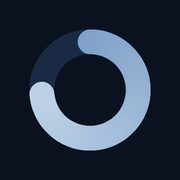
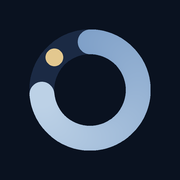
Marka: uygulama adı her yerde "Sıfırla"
- Üst bar: yeni işaret (kapanmaya yaklaşan sıfır/halka + uç noktası,
  hero halkasıyla akraba) + "Sıfırla" + slogan "Borcunu sıfırla."
- Sekme başlığı, docTitle, manifest (name/short_name/description),
  index.html, README, sw.js yorumları güncellendi
- PWA ikonları yeniden üretildi: halka boşluğuna şampanya uç noktası
  (marka işaretiyle aynı motif); SW önbelleği v2'ye yükseltildi
- Yedek dosyası: sifirla-yedek-*.json (EN: sifirla-backup-*.json)
- Onboarding ilk kart: "Sıfırla: borcunu sıfırla."
- EN'de marka çevrilmez ("Sıfırla"), slogan "Debt payoff planner"
- Paylaşım kartı ve yerel bildirim başlığı zaten st().baslik /
  zilYerelBaslik üzerinden "Sıfırla" oldu

Changed region(s): [[0.25, 0.25, 0.3611, 0.3889]]

diff --git a/borc-plani.html b/borc-plani.html
@@ -3,7 +3,7 @@
 <head>
 <meta charset="UTF-8">
 <meta name="viewport" content="width=device-width, initial-scale=1.0">
-<title>Borç Planlayıcı</title>
+<title>Sıfırla</title>
 <!-- PWA: manifest + ikonlar yereldir; dış çağrı yok kuralı bozulmaz -->
 <link rel="manifest" href="manifest.webmanifest">
 <link rel="icon" type="image/png" sizes="192x192" href="ikon-192.png">
@@ -129,6 +129,7 @@
   .container { max-width: 880px; margin: 0 auto; }
   header { display: flex; justify-content: space-between; align-items: center; margin-bottom: 24px; }
   h1 { font-size: 24px; font-weight: 600; color: var(--accent-strong); }
+  .marka .slogan { margin: 1px 0 0 30px; font-size: 12px; letter-spacing: 0.04em; color: var(--text-muted); }
   h2 { font-size: 17px; font-weight: 600; margin-bottom: 16px; color: var(--accent-strong); }
   .card {
     background: var(--surface);
@@ -438,7 +439,12 @@
 <body>
 <div class="container">
   <header>
-    <h1><svg class="ikn" viewBox="0 0 24 24" fill="none" stroke="currentColor" stroke-width="1.75" stroke-linecap="round" stroke-linejoin="round" aria-hidden="true"><path d="M4 20C4 12 10 5 20 4c0 10-7 16-14 16"/><path d="M4 20c2-6 6-10 11-12"/></svg><span data-i18n="baslik">Borç Planlayıcı</span></h1>
+    <!-- Marka işareti: kapanmaya yaklaşan sıfır/halka + uç noktası
+         (hero ilerleme halkasıyla akraba; yaprak ikonunun yerini aldı) -->
+    <div class="marka">
+      <h1><svg class="ikn" viewBox="0 0 24 24" fill="none" stroke="currentColor" stroke-width="1.75" stroke-linecap="round" aria-hidden="true"><circle cx="12" cy="12" r="8.5" stroke-dasharray="44 9.4" transform="rotate(-80 12 12)"/><circle cx="8.8" cy="4.1" r="1.5" fill="currentColor" stroke="none"/></svg><span data-i18n="baslik">Sıfırla</span></h1>
+      <p class="slogan" data-i18n="slogan">Borcunu sıfırla.</p>
+    </div>
     <div class="kontroller no-print">
       <select id="palet" title="Tema paleti">
         <option value="teal" data-i18n="opt_teal">Gece Mavisi &amp; Gümüş (varsayılan)</option>
@@ -1026,7 +1032,7 @@
   <div class="ob-serit" id="obSerit">
     <section class="ob-kart">
       <svg class="buyuk" viewBox="0 0 48 48" fill="none" stroke="currentColor" stroke-width="2" stroke-linecap="round" stroke-linejoin="round" aria-hidden="true"><path d="M18 8 6 12v28l12-4 12 4 12-4V8l-12 4-12-4z"/><path d="M18 8v28M30 12v28"/><path d="M36 4v10M36 4h7l-2 3 2 3h-7"/></svg>
-      <h2 data-i18n="ob1b">Borçtan çıkışını planla.</h2>
+      <h2 data-i18n="ob1b">Sıfırla: borcunu sıfırla.</h2>
       <p data-i18n="ob1m">Borçlarını gir, borçsuz olacağın tarihi anında gör.</p>
     </section>
     <section class="ob-kart">
@@ -1064,8 +1070,9 @@
 const SOZLUK = {
   tr: {
     statik: {
-      docTitle: "Borç Planlayıcı",
-      baslik: "Borç Planlayıcı",
+      docTitle: "Sıfırla",
+      baslik: "Sıfırla",
+      slogan: "Borcunu sıfırla.",
       opt_teal: "Gece Mavisi & Gümüş (varsayılan)", opt_orman: "Orman (Pro)", opt_bakir: "Bakır-Yeşil (Pro)",
       ozet_bakiye: "Toplam bakiye", hero_buay: "Bu ay ödenecek",
       hayat_h: "Önlenen Faizin Karşılığı",
@@ -1089,7 +1096,7 @@ const SOZLUK = {
       k6m: "Her ay tek dokunuşla check-in yap. Harita yeşillenir, serin büyür, yol kısalır.",
       kilavuz_feragat: "Feragatnameyi oku",
       kilavuz_tur: "Turu tekrar göster",
-      ob1b: "Borçtan çıkışını planla.", ob1m: "Borçlarını gir, borçsuz olacağın tarihi anında gör.",
+      ob1b: "Sıfırla: borcunu sıfırla.", ob1m: "Borçlarını gir, borçsuz olacağın tarihi anında gör.",
       ob2b: "Bilimsel yöntemle: kartopu ve çığ.", ob2m: "İki kanıtlı stratejiyi yan yana karşılaştır, sana uyanı seç.",
       ob3b: "Sadece bu ay ne yapacağını gör.", ob3m: "Her ay tek net liste: hangi borca ne kadar.",
       ob4b: "Verin sadece sende — internet gerekmez.", ob4m: "Her şey cihazında çalışır; hiçbir veri gönderilmez.",
@@ -1300,7 +1307,7 @@ const SOZLUK = {
       kartBos: "Önce borç ekle — başarı kartın burada oluşacak.",
       kartDosya: "basari-karti.png",
       kartPaylasMetin: "Borç kapatma yolculuğumda ilerliyorum!",
-      yedekDosya: (t) => `borc-plani-yedek-${t}.json`,
+      yedekDosya: (t) => `sifirla-yedek-${t}.json`,
       yedekOk: "✓ Yedek indirildi (şifresiz).",
       yedekSifreliOk: "✓ Şifreli yedek indirildi. Parolanı unutma — kurtarma yolu yok!",
       yedekParolaGerek: "Bu yedek şifreli: içe aktarmak için parola alanına aynı parolayı yaz.",
@@ -1372,8 +1379,10 @@ const SOZLUK = {
   },
   en: {
     statik: {
-      docTitle: "Debt Planner",
-      baslik: "Debt Planner",
+      /* Marka çevrilmez: "Sıfırla" her dilde aynı; yalnızca slogan yerelleşir */
+      docTitle: "Sıfırla",
+      baslik: "Sıfırla",
+      slogan: "Debt payoff planner",
       opt_teal: "Midnight Blue & Silver (default)", opt_orman: "Forest (Pro)", opt_bakir: "Copper-Green (Pro)",
       ozet_bakiye: "Total balance", hero_buay: "Due this month",
       hayat_h: "What Your Saved Interest Buys",
@@ -1397,7 +1406,7 @@ const SOZLUK = {
       k6m: "Check in once a month with a single tap. The map turns green, your streak grows, the road gets shorter.",
       kilavuz_feragat: "Read the disclaimer",
       kilavuz_tur: "Show the tour again",
-      ob1b: "Plan your way out of debt.", ob1m: "Enter your debts and instantly see your debt-free date.",
+      ob1b: "Sıfırla: zero out your debt.", ob1m: "Enter your debts and instantly see your debt-free date.",
       ob2b: "With proven methods: snowball & avalanche.", ob2m: "Compare the two strategies side by side and pick yours.",
       ob3b: "See only what to do this month.", ob3m: "One clear list each month: which debt, how much.",
       ob4b: "Your data stays with you — no internet needed.", ob4m: "Everything runs on your device; nothing is ever sent.",
@@ -1607,7 +1616,7 @@ const SOZLUK = {
       kartBos: "Add a debt first — your achievement card will appear here.",
       kartDosya: "achievement-card.png",
       kartPaylasMetin: "Making progress on my debt-free journey!",
-      yedekDosya: (t) => `debt-plan-backup-${t}.json`,
+      yedekDosya: (t) => `sifirla-backup-${t}.json`,
       yedekOk: "✓ Backup downloaded (unencrypted).",
       yedekSifreliOk: "✓ Encrypted backup downloaded. Don't forget the password — there is no recovery!",
       yedekParolaGerek: "This backup is encrypted: type the same password into the password field to import it.",

diff --git a/sw.js b/sw.js
@@ -1,11 +1,11 @@
-/* Borç Planlayıcı — isteğe bağlı service worker.
+/* Sıfırla — isteğe bağlı service worker.
    1) Çevrimdışı önbellek: uygulama kabuğu kurulumda önbelleğe alınır; istekler
       önce ağdan denenir (güncellemeler hemen yansır), ağ yoksa önbellekten döner.
    2) Bildirim gösterimi ve bildirime tıklayınca uygulamayı öne getirme.
    Zamanlanmış/arka plan bildirim GARANTİSİ VERMEZ; sayfa kapalıyken tarayıcı
    bu dosyayı istediği an durdurabilir. Güvenilir kaynak uygulama içindeki panodur. */
 
-const ONBELLEK = "borc-plani-v1";
+const ONBELLEK = "borc-plani-v2"; // v2: Sıfırla markası — ikonlar/manifest değişti
 const KABUK = [
   "./",
   "./index.html",

diff --git a/index.html b/index.html
@@ -4,9 +4,9 @@
 <head>
 <meta charset="UTF-8">
 <meta http-equiv="refresh" content="0; url=./borc-plani.html">
-<title>Borç Planlayıcı</title>
+<title>Sıfırla</title>
 </head>
 <body>
-<p><a href="./borc-plani.html">Borç Planlayıcı'ya git</a></p>
+<p><a href="./borc-plani.html">Sıfırla'ya git</a></p>
 </body>
 </html>

diff --git a/README.md b/README.md
@@ -1,6 +1,7 @@
-# Borç Planlayıcı
+# Sıfırla
 
-Tamamen çevrimdışı, sunucusuz, tek HTML dosyalık borç kapatma planlayıcısı (TR/EN).
+*Borcunu sıfırla.* Tamamen çevrimdışı, sunucusuz, tek HTML dosyalık borç kapatma
+planlayıcısı (TR/EN).
 
 Borçlarını gir (kredi kartı/KMH veya taksitli kredi); deterministik simülasyon
 motoru **kartopu** (en küçük bakiye önce) ve **çığ** (en yüksek faiz önce)
